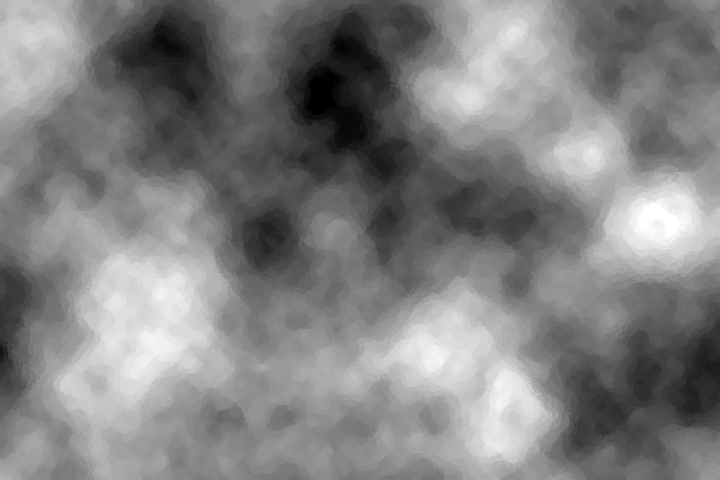
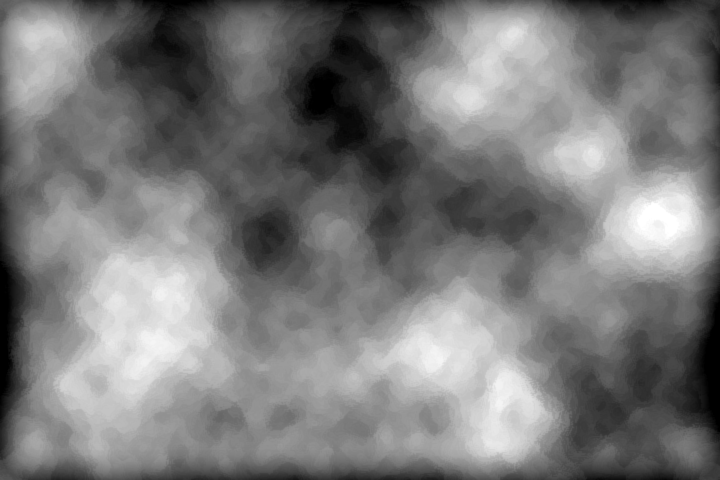
Added inner shadow to the burn image.

Changed region(s): [[0.0, 0.0, 1.0, 1.0]]

diff --git a/shader_test.html b/shader_test.html
@@ -11,7 +11,7 @@
             padding: 0;
             width: 100%;
             height: 100%;
-            background: #eee;
+            background: #ffffff;
             font-family: "Droid Sans", "Arial", sans;
         }
 
@@ -43,7 +43,6 @@
             top: 50%;
             margin-left: -360px;
             margin-top: -240px;
-            border: 1px solid black;
         }
         
     </style>
